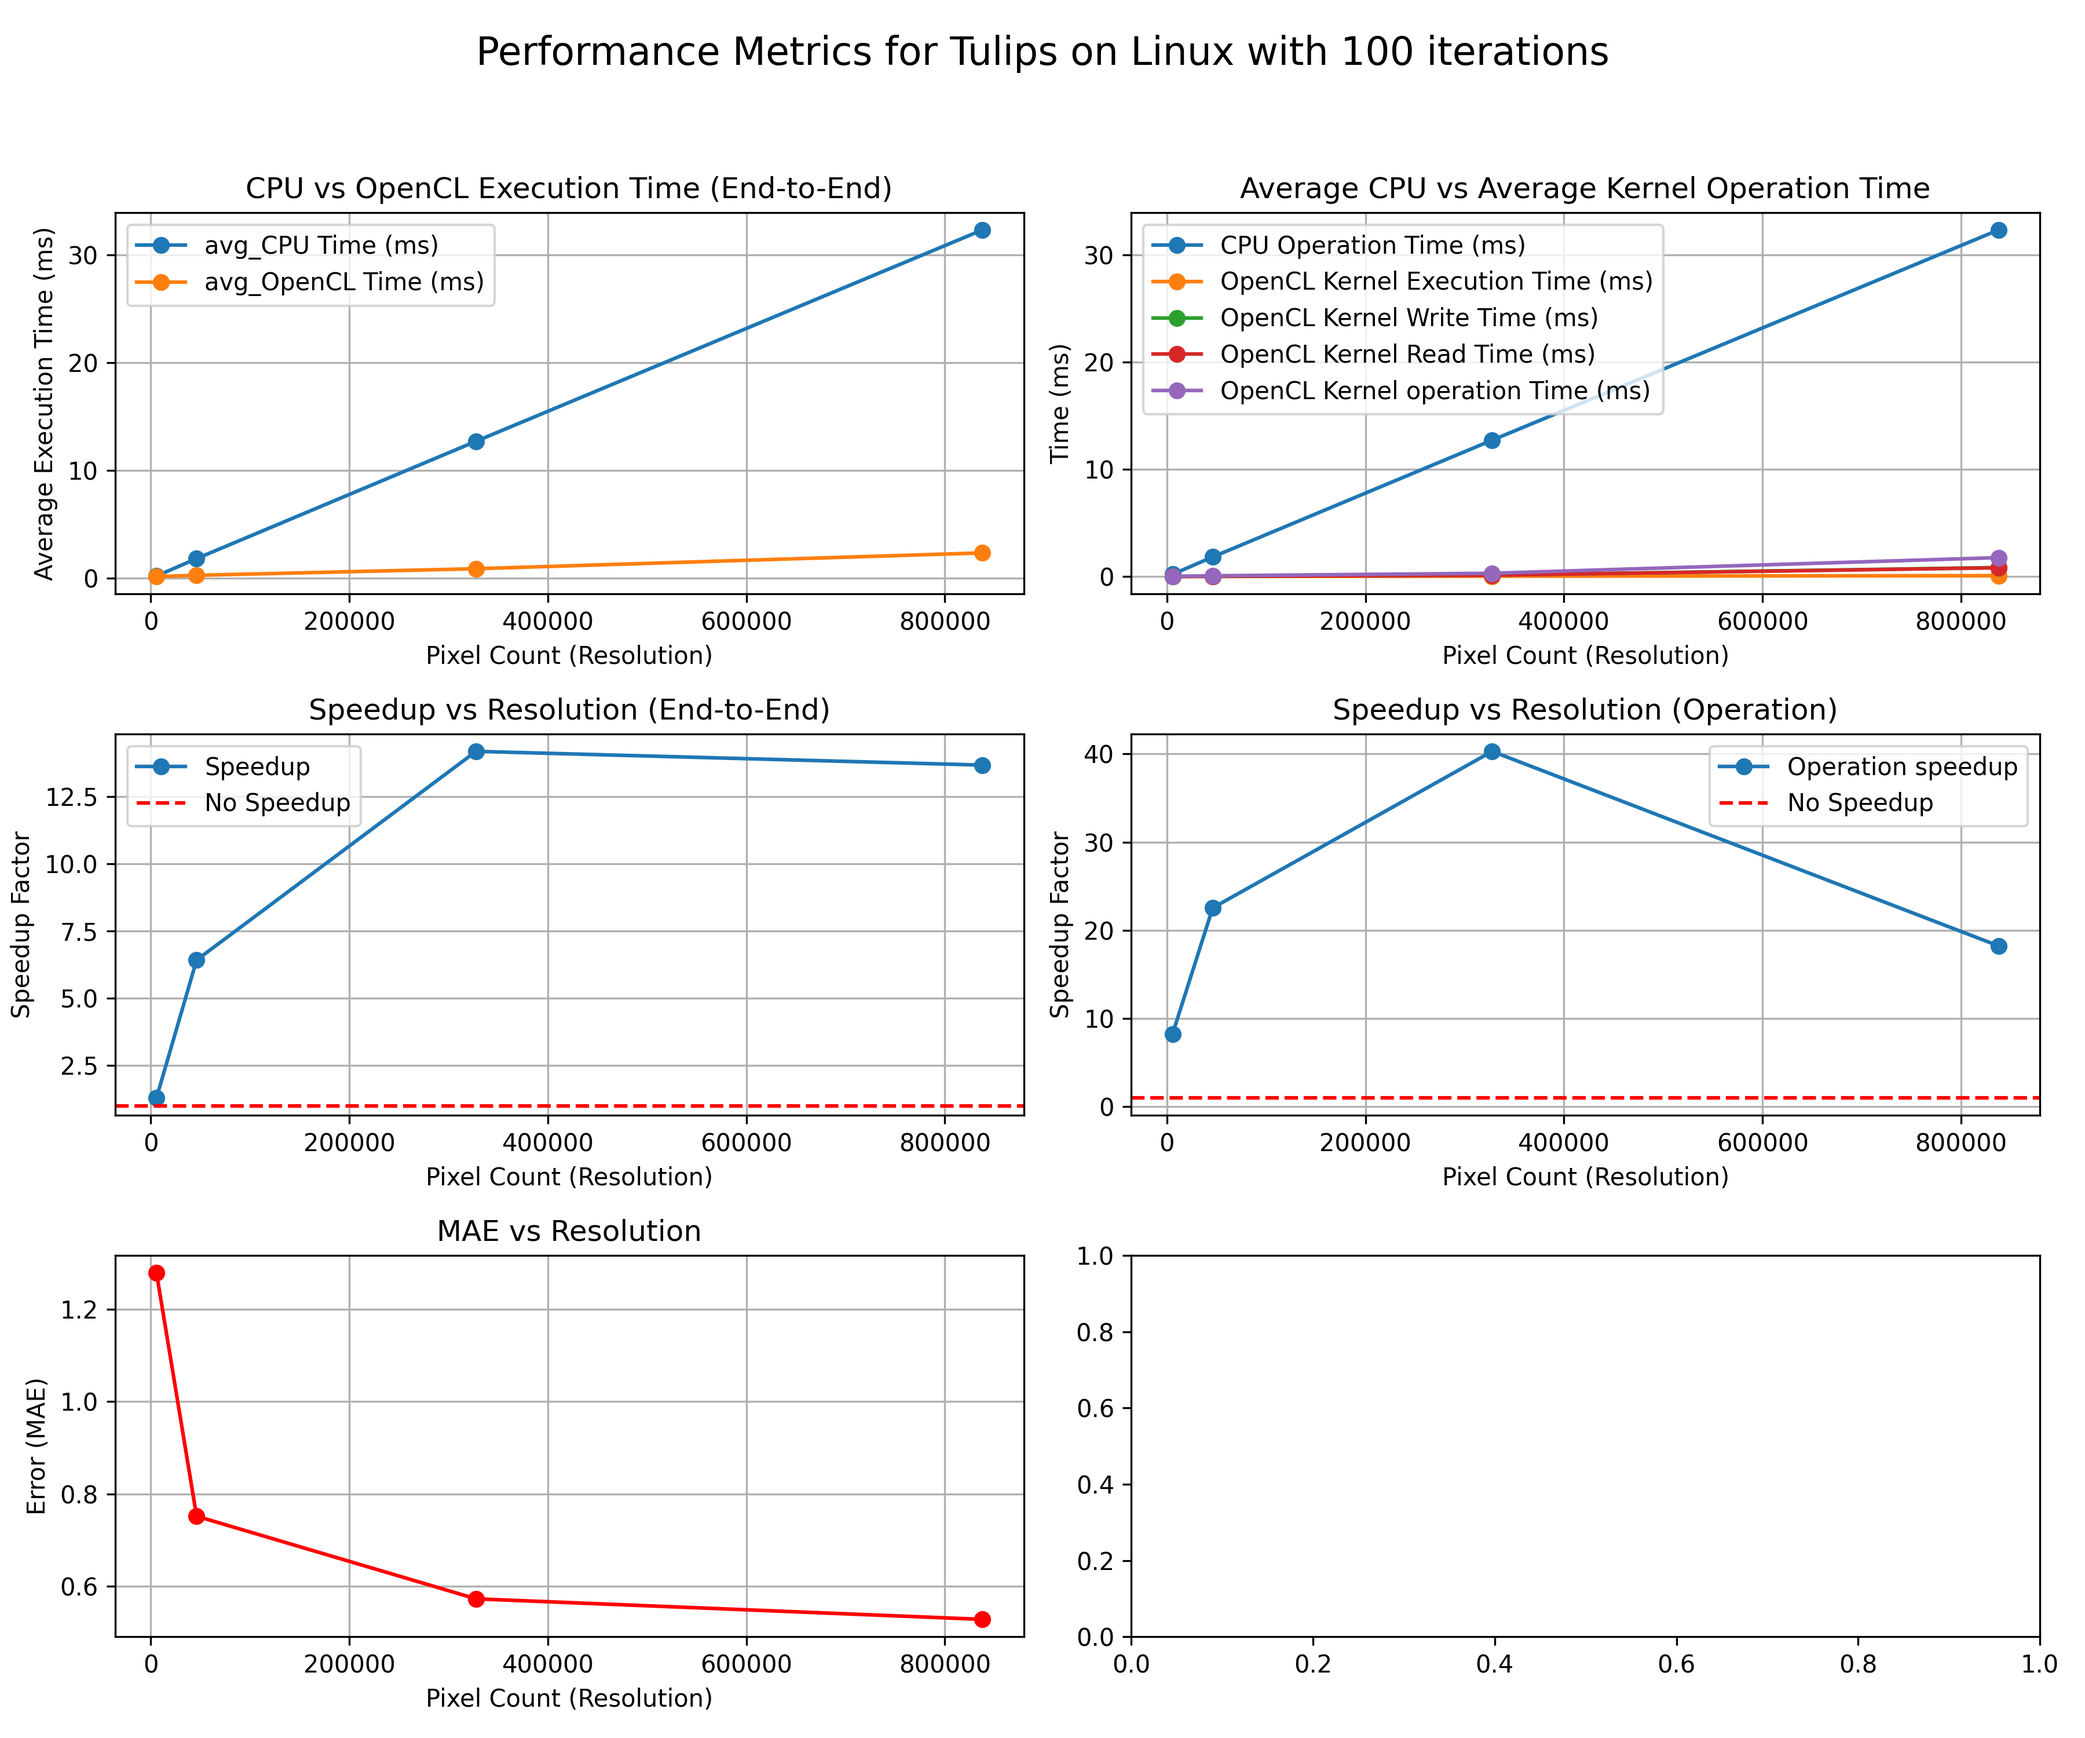
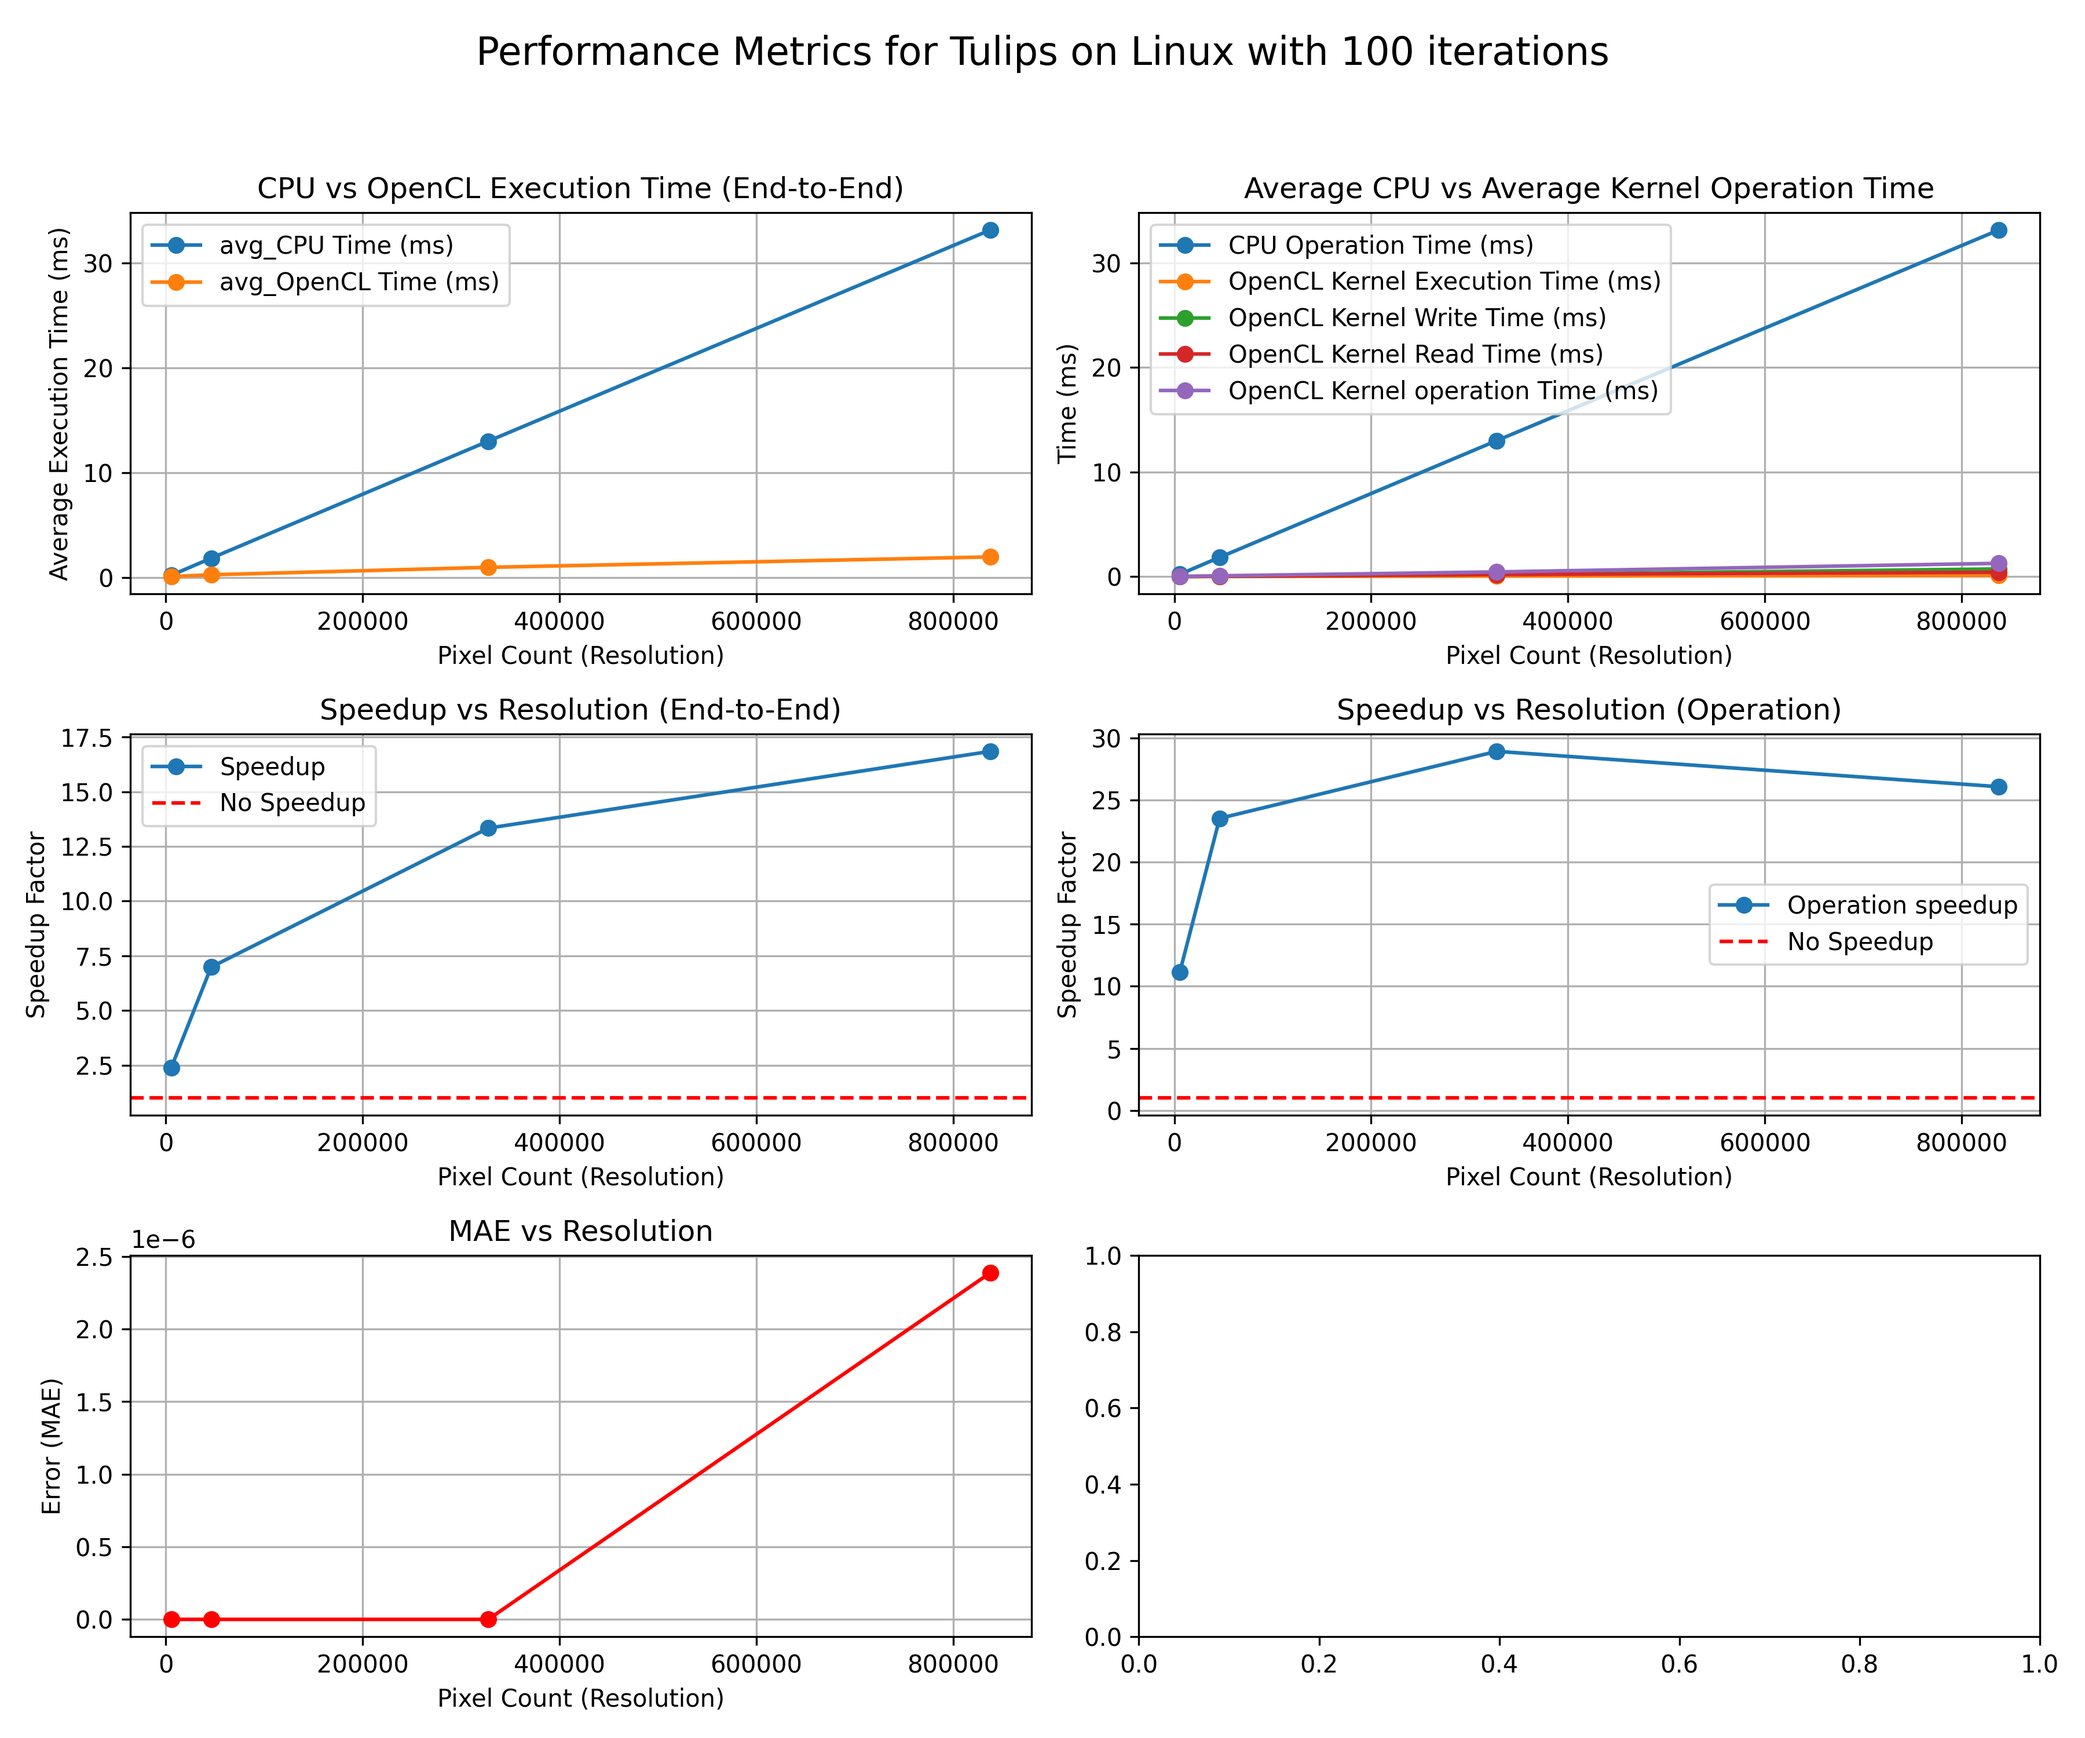
performed test on linux on GaussianBlur

diff --git a/src/GaussianBlur/GaussianBlur.cpp b/src/GaussianBlur/GaussianBlur.cpp
@@ -21,6 +21,7 @@ bool DISPLAY_IMAGES = false;
 bool DISPLAY_TERMINAL_RESULTS = true;
 
 bool LOG_EVENTS = false;
+bool BYPASS_IMAGE_SUPPORT = true;
 
 std::string IMAGES_DIRECTORY = "images/";
 std::string KERNEL_NAME = "gaussian_images.cl";
@@ -62,12 +63,25 @@ void InitOpenCL(Controller& controller, cl_context* context, cl_command_queue* c
 
     // Check device image support
     cl_bool image_support = CL_FALSE;
-    clGetDeviceInfo(devices[DEVICE_INDEX], CL_DEVICE_IMAGE_SUPPORT, sizeof(cl_bool), &image_support, nullptr);
-    if (image_support == CL_FALSE) {
+    switch (BYPASS_IMAGE_SUPPORT)
+    {
+    case false:
+        clGetDeviceInfo(devices[DEVICE_INDEX], CL_DEVICE_IMAGE_SUPPORT, sizeof(cl_bool), &image_support, nullptr);
+        if (image_support == CL_FALSE) {
+            kernel_name = "gaussian_base.cl";
+            std::cout << "Device does not support images. Using buffers instead of image2D structures." << std::endl;
+        }else{
+            std::cout << "Device supports images." << std::endl;
+        }
+        break;
+
+    case true:
         kernel_name = "gaussian_base.cl";
-        std::cout << "Device does not support images. Using buffers instead of image2D structures." << std::endl;
-    }else{
-        std::cout << "Device supports images." << std::endl;
+        std::cout << "Bypass image support is True. Using buffers instead of image2D structures." << std::endl;
+        break;
+    
+    default:
+        break;
     }
     controller.SetImageSupport(image_support);
 
